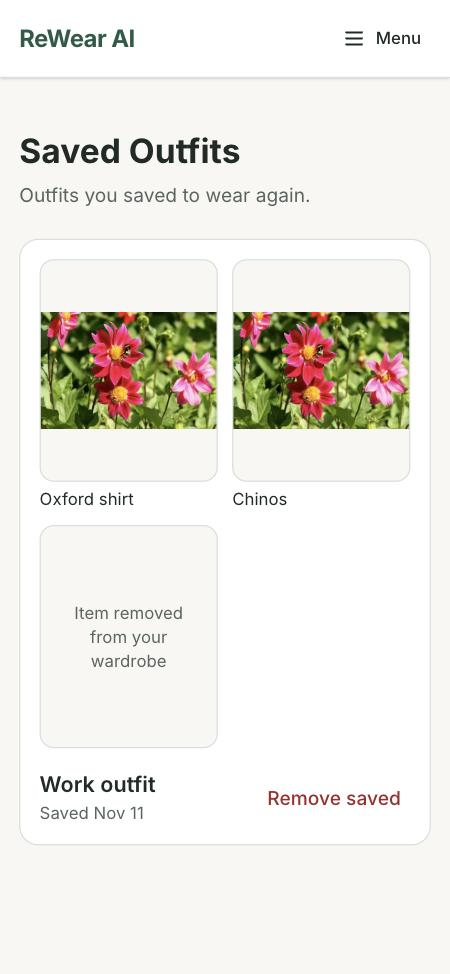
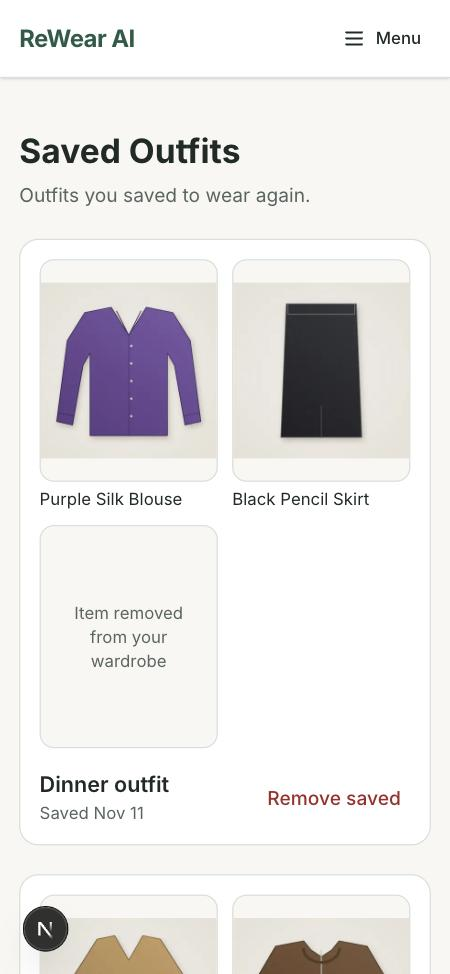
docs: retake saved outfit screenshots on the Test User wardrobe (#14)

diff --git a/docs/evidence/issue-14/README.md b/docs/evidence/issue-14/README.md
@@ -1,6 +1,6 @@
 # Issue #14 (User Story 9: Saved Outfits): evidence
 
-Users can save a generated outfit from Create Outfit, see their saved outfits on `/outfits/saved` (wireframe 10), and remove one after confirming. A saved outfit stores references to the user's own wardrobe items, never copies. An item deleted since saving shows as "Item removed from your wardrobe" and is never replaced. One manual browser run used a production build against a throwaway in-memory MongoDB, with six seeded items that use the Cloudinary demo photo as a placeholder. **Nothing ran against Atlas or on Vercel.**
+Users can save a generated outfit from Create Outfit, see their saved outfits on `/outfits/saved` (wireframe 10), and remove one after confirming. A saved outfit stores references to the user's own wardrobe items, never copies. An item deleted since saving shows as "Item removed from your wardrobe" and is never replaced. Screenshots come from a local `next dev` run of this branch using the team's `.env.local`, which means the real MongoDB Atlas database and Cloudinary images. They use the team's existing **Test User** account and its illustrated wardrobe. An earlier run against a throwaway in-memory MongoDB checked the same flow, including that a repeated save adds no second record. Nothing ran on Vercel.
 
 ## Design decisions applied
 
@@ -16,22 +16,29 @@ Users can save a generated outfit from Create Outfit, see their saved outfits on
 
 | Criterion | Tests | Browser |
 |---|---|---|
-| The user can save an outfit recommendation | `SaveOutfitButton.test.tsx`, `CreateOutfitForm.test.tsx`, `savedOutfitRoutes.test.ts` (POST) | `create-outfit-saved-800.jpg`: **Saved** with "Outfit saved. View saved outfits" |
-| A saved outfit retains its specific wardrobe items | `savedOutfitService.test.ts`, repository contract (memory and MongoDB) | `saved-list-800.jpg`; `missing-item-800.jpg` after deleting Loafers |
-| The user can view previously saved outfits | `savedOutfitsPage.test.tsx`, `SavedOutfitList.test.tsx`, GET route tests | `saved-list-800.jpg`: newest first; `empty-state-800.jpg` |
-| The user can remove a saved outfit | `SavedOutfitList.test.tsx` (confirm, cancel, retry), DELETE route tests (incl. another user's outfit → 404) | `remove-confirm-800.jpg`, `removed-800.jpg`; still removed after reload |
+| The user can save an outfit recommendation | `SaveOutfitButton.test.tsx`, `CreateOutfitForm.test.tsx`, `savedOutfitRoutes.test.ts` (POST) | `create-outfit-saved-1280.jpg`: **Saved** with "Outfit saved. View saved outfits" |
+| A saved outfit retains its specific wardrobe items | `savedOutfitService.test.ts`, repository contract (memory and MongoDB) | `saved-list-1280.jpg`: each card shows its own items; the Dinner card shows "Item removed from your wardrobe" for its deleted shoes |
+| The user can view previously saved outfits | `savedOutfitsPage.test.tsx`, `SavedOutfitList.test.tsx`, GET route tests | `saved-list-1280.jpg`: newest first; `empty-state-1280.jpg` |
+| The user can remove a saved outfit | `SavedOutfitList.test.tsx` (confirm, cancel, retry), DELETE route tests (incl. another user's outfit → 404) | `remove-confirm-1280.jpg`, `removed-1280.jpg`; still removed after reload |
 
 Mobile (375 px): one column, no horizontal scroll (`scrollWidth` 375), and Remove saved is visible without hover (`mobile-375.jpg`). Wireframe reference: `wireframe-10-reference.png`.
 
-## Browser run (2026-11-11)
+## Browser runs (2026-11-11)
 
-1. A signed-out visit to `/outfits/saved` redirects to `/sign-in`.
-2. After sign-in, the page shows "No saved outfits yet" with **Create an outfit**.
-3. Work outfit (Oxford shirt, Chinos, Loafers) → **Save outfit** → **Saved**. Generating again gives a fresh **Save outfit** button. Saving the same Work outfit again left **one** Work record in the database.
-4. Casual outfit saved. `/outfits/saved` lists Casual, then Work, each with its own item photos and "Saved Nov 11".
-5. Loafers deleted from the database → the Work card shows "Item removed from your wardrobe" in its place.
-6. **Remove saved** opens an `alertdialog` with focus on **Cancel**; Escape closes it. Confirming removes the Casual card and shows "Saved outfit removed." The card stays gone after reload.
-7. Requests: `GET /api/outfits/saved` 200, `DELETE /api/outfits/saved/:id` 200, images through `/_next/image` 200. The only 404 is the header's prefetch of `/outfits/history`, which is #15 (US10) and not built yet.
+**Screenshots: `next dev` with `.env.local` (Atlas and Cloudinary), Test User, 1280 px and 375 px**
+
+1. Work outfit (Camel Shirt Dress, Black Pointed Heels, Brown Suede Jacket, Red Satin Clutch) and Casual outfit (Navy Striped Day Dress, Navy Canvas Sneakers, Yellow Rain Jacket, Beige Canvas Cap) saved from Create Outfit → **Saved** with "Outfit saved. View saved outfits" (`create-outfit-saved-1280.jpg`).
+2. Missing item, with none of Test User's own clothes deleted: a temporary copy of Black Pointed Heels was uploaded, a Dinner outfit (Purple Silk Blouse, Black Pencil Skirt, the copy) was saved through `POST /api/outfits/saved`, and then only the copy was deleted. The Dinner card shows "Item removed from your wardrobe" in its place (`saved-list-1280.jpg`).
+3. **Remove saved** on Casual opens the confirmation with focus on **Cancel** (`remove-confirm-1280.jpg`). Confirming removes the card and shows "Saved outfit removed." (`removed-1280.jpg`).
+4. 375 px: one column, `scrollWidth` 375 (`mobile-375.jpg`).
+5. Clean-up: the Dinner and Work outfits were removed afterwards, so Test User's Saved Outfits is empty again, as it was before the run (`empty-state-1280.jpg`).
+
+**Earlier check: production build with a throwaway in-memory MongoDB**
+
+- A signed-out visit to `/outfits/saved` redirects to `/sign-in`.
+- Saving the same Work outfit twice left **one** Work record in the database. Generating again gives a fresh **Save outfit** button.
+- Escape closes the remove confirmation, and a removed outfit stays gone after reload.
+- Requests: `GET /api/outfits/saved` 200, `DELETE /api/outfits/saved/:id` 200. The only 404 is the header's prefetch of `/outfits/history`, which is #15 (US10) and not built yet.
 
 ## Results
 
